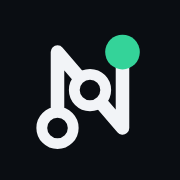
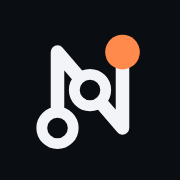
Rebrand to the warm 'Nox Sunrise' palette; Rubik headings; solid hero title
Rumen found the emerald palette too dull and picked the orange/pink/violet
'Nox Sunrise' direction (night turning into sunrise = the result) from three
rendered options. Accent is now orange (#c2410c light / #ff8a4c dark), the
aurora blobs are orange, pink and violet, and the rare secondary accent moves
from amber (now too close to the accent) to violet as --pop. All text pairs
re-checked for AA.

Headings switch to Rubik: warmer and rounder, with normal Bulgarian
letterforms. Unbounded was tried in the preview and rejected - under
lang=bg it renders cursive-style Bulgarian glyphs and the hero line was
unreadable.

The hero title is now solid from first paint: the outline-until-you-scroll
effect hurt readability of the most important line regardless of font.

Logo SVGs, adaptive favicon, apple icon and both OG images regenerated in the
new accent (OG headline now in Rubik).

Claude-Session: https://claude.ai/code/session_01BFRGck5Kx4isH8nadBXTqT

Changed region(s): [[0.5833, 0.1667, 0.7778, 0.3889]]

diff --git a/src/app/globals.css b/src/app/globals.css
@@ -7,15 +7,15 @@
   --foreground: #0a0a0a;
   --surface: #ffffff;
   --border: rgba(10, 10, 10, 0.08);
-  --accent: #047857;
-  --accent-rgb: 4, 120, 87;
+  --accent: #c2410c;
+  --accent-rgb: 194, 65, 12;
   --accent-contrast: #ffffff;
   /* Muted text is the foreground ink at reduced opacity rather than a
      separate gray - one ink carries both roles instead of two unrelated
      neutrals, same contrast level as the old #57534e (~7:1). */
   --muted: rgba(10, 10, 10, 0.68);
-  --ember: #f5b544;
-  --ember-contrast: #0a0d12;
+  --pop: #a78bfa;
+  --pop-contrast: #1e1033;
 }
 
 .dark {
@@ -23,9 +23,9 @@
   --foreground: #f5f5f4;
   --surface: #141922;
   --border: rgba(255, 255, 255, 0.08);
-  --accent: #34d399;
-  --accent-rgb: 52, 211, 153;
-  --accent-contrast: #052e22;
+  --accent: #ff8a4c;
+  --accent-rgb: 255, 138, 76;
+  --accent-contrast: #1a0b02;
   --muted: rgba(245, 245, 244, 0.65);
 }
 
@@ -37,10 +37,12 @@
   --color-accent: var(--accent);
   --color-accent-contrast: var(--accent-contrast);
   --color-muted: var(--muted);
-  --color-ember: var(--ember);
-  --color-ember-contrast: var(--ember-contrast);
+  --color-pop: var(--pop);
+  --color-pop-contrast: var(--pop-contrast);
   --font-sans: "Onest Variable", ui-sans-serif, system-ui, -apple-system, "Segoe UI", Roboto,
     "Helvetica Neue", Arial, sans-serif;
+  --font-display: "Rubik Variable", "Onest Variable", ui-sans-serif, system-ui,
+    sans-serif;
   --font-mono: "JetBrains Mono Variable", ui-monospace, SFMono-Regular, Menlo,
     Consolas, monospace;
 }
@@ -67,6 +69,7 @@ p {
 h1,
 h2,
 h3 {
+  font-family: var(--font-display);
   letter-spacing: -0.02em;
 }
 

diff --git a/src/components/HeroSection.tsx b/src/components/HeroSection.tsx
@@ -1,7 +1,6 @@
 import Link from "next/link";
 import ScrollReveal from "./ScrollReveal";
 import AuroraBackground from "./AuroraBackground";
-import ScrollFillHeading from "./ScrollFillHeading";
 import FlowHero from "./FlowHero";
 import { content, type Locale } from "@/lib/content";
 
@@ -21,11 +20,11 @@ export default function HeroSection({ locale }: { locale: Locale }) {
             <span className="h-1.5 w-1.5 rounded-full bg-accent" />
             {t.hero.eyebrow}
           </p>
-          <ScrollFillHeading
-            title={t.hero.title}
-            accent={t.hero.titleAccent}
-            className="max-w-xl text-4xl font-semibold leading-[1.08] tracking-tight sm:text-5xl lg:text-6xl"
-          />
+          {/* Solid from the first paint: the old outline-until-scroll effect made
+              the most important line on the page hard to read. */}
+          <h1 className="max-w-xl text-4xl font-semibold leading-[1.08] tracking-tight sm:text-5xl lg:text-6xl">
+            {t.hero.title} <span className="gradient-text">{t.hero.titleAccent}</span>
+          </h1>
           <p className="mt-6 max-w-md text-lg text-muted">{t.hero.subtitle}</p>
           <div className="mt-10 flex flex-wrap items-center gap-4">
             <Link

diff --git a/src/components/AuroraBackground.tsx b/src/components/AuroraBackground.tsx
@@ -40,15 +40,15 @@ export default function AuroraBackground() {
     >
       <div
         data-blob
-        className="aurora-blob absolute -left-48 -top-56 h-[38rem] w-[38rem] [--blob:rgba(var(--accent-rgb),0.3)]"
+        className="aurora-blob absolute -left-48 -top-56 h-[38rem] w-[38rem] [--blob:rgba(var(--accent-rgb),0.32)]"
       />
       <div
         data-blob
-        className="aurora-blob absolute -right-44 -top-14 h-[34rem] w-[34rem] [--blob:rgba(56,189,248,0.2)] dark:[--blob:rgba(14,165,233,0.2)]"
+        className="aurora-blob absolute -right-44 -top-14 h-[34rem] w-[34rem] [--blob:rgba(236,72,153,0.18)] dark:[--blob:rgba(236,72,153,0.24)]"
       />
       <div
         data-blob
-        className="aurora-blob absolute left-[22%] top-[38%] h-[32rem] w-[32rem] [--blob:rgba(167,139,250,0.15)] dark:[--blob:rgba(139,92,246,0.15)]"
+        className="aurora-blob absolute left-[22%] top-[38%] h-[32rem] w-[32rem] [--blob:rgba(167,139,250,0.22)] dark:[--blob:rgba(139,92,246,0.3)]"
       />
     </div>
   );

diff --git a/src/components/PricingSection.tsx b/src/components/PricingSection.tsx
@@ -40,7 +40,7 @@ export default function PricingSection({
               }`}
             >
               {tier.badge && (
-                <span className="mb-4 inline-block w-fit rounded-full bg-ember px-3 py-1 text-xs font-semibold text-ember-contrast">
+                <span className="mb-4 inline-block w-fit rounded-full bg-pop px-3 py-1 text-xs font-semibold text-pop-contrast">
                   {tier.badge}
                 </span>
               )}

diff --git a/src/components/FlowHero.tsx b/src/components/FlowHero.tsx
@@ -40,7 +40,7 @@ function readColors(): Colors {
   const v = (name: string, fallback: string) => s.getPropertyValue(name).trim() || fallback;
   return {
     ink: v("--foreground", "#f5f5f4"),
-    accent: v("--accent", "#34d399"),
+    accent: v("--accent", "#ff8a4c"),
     bg: v("--background", "#0a0d12"),
     dark: document.documentElement.classList.contains("dark"),
   };

diff --git a/src/app/layout.tsx b/src/app/layout.tsx
@@ -1,6 +1,7 @@
 import type { Metadata } from "next";
 import "@fontsource-variable/onest";
 import "@fontsource-variable/jetbrains-mono";
+import "@fontsource-variable/rubik";
 import "./globals.css";
 import MouseDrone from "@/components/MouseDrone";
 import SiteBackground from "@/components/SiteBackground";

diff --git a/CLAUDE.md b/CLAUDE.md
@@ -81,12 +81,17 @@ CSS custom properties, redefined under `.dark`:
   `#0a0d12`, `--surface` `#141922` (blue-tinted night, deliberately not
   cyberninjas' green-black). Contrast checked: text 17.8:1, muted 7.8:1,
   accent 10.1:1 on background. Light mode unchanged.
-- `--accent` is WCAG-AA-passing emerald (`#047857` light / `#34d399`
-  dark) — computed via a one-off Node contrast-ratio script, don't
-  revert to a lighter/brighter green without re-checking contrast.
+- **Palette = "Nox Sunrise"** (chosen by Rumen 2026-10-30, replacing the
+  emerald look he found too dull): `--accent` orange `#c2410c` light /
+  `#ff8a4c` dark (`--accent-contrast` `#fff` / `#1a0b02`); aurora blobs
+  orange + pink `rgba(236,72,153)` + violet `rgba(139,92,246)`. All AA:
+  dark accent 8.3:1 on bg, ink on accent button 8.2:1, light accent 5.0:1 on
+  paper, white on light accent 5.2:1. Re-check contrast before any change.
 - `--muted` is the foreground ink at reduced opacity
   (`rgba(fg, 0.68)` light / `0.65` dark), **not** a separate gray hex —
   jeton.com-inspired single-ink pattern, same contrast as before (~7:1).
+- Hero h1 is plain solid text (the old ScrollFillHeading outline-until-scroll
+  effect was deleted: it made the key line hard to read).
 - `.gradient-text` is a **solid** accent color, not an actual gradient
   (deliberate — gradient-clip text reads as generic AI-template
   polish). Misleading class name, intentionally kept.
@@ -95,16 +100,19 @@ CSS custom properties, redefined under `.dark`:
   that should read as the "lifted focal point" (highlighted pricing
   tier, hero dashboard mock) — don't apply it everywhere, it's meant to
   be rare.
-- Font: **Onest Variable**, self-hosted via `@fontsource-variable/onest`
+- Headings h1-h3: **Rubik Variable** via `--font-display`
+  (`@fontsource-variable/rubik`), warmer/rounder, normal Bulgarian letterforms.
+  Unbounded was tried and rejected - with lang="bg" it renders Bulgarian
+  cursive-style forms and the hero line became unreadable.
+- Body font: **Onest Variable**, self-hosted via `@fontsource-variable/onest`
   (imported in `layout.tsx`, first in `--font-sans`). Chosen for proper
   Cyrillic; deliberately not Sofia Sans (cyberninjas' signature). Not
   `next/font/google` - that fetches from Google at build time, which the
   sandbox blocks.
-- `--ember` `#f5b544` / `--ember-contrast` `#0a0d12` (same in both themes,
-  Tailwind `bg-ember text-ember-contrast`): the brand's rare warm accent.
-  Currently used ONLY on the pricing "most popular" badge. Fill only, never
-  as text on light backgrounds (fails contrast); keep it to one element
-  per screen.
+- `--pop` `#a78bfa` / `--pop-contrast` `#1e1033` (both themes, Tailwind
+  `bg-pop text-pop-contrast`, 6.6:1): rare secondary accent, replaced the
+  amber `--ember` once orange became the main accent. Used ONLY on the pricing
+  "most popular" badge. Fill only, never as text on light (2.6:1).
 - Mono: **JetBrains Mono Variable** (`@fontsource-variable/jetbrains-mono`,
   `--font-mono`). Functional only: `.label-mono` (uppercase 12px 500
   +0.08em) for eyebrows, plus step numbers (01-04), dashboard title,
